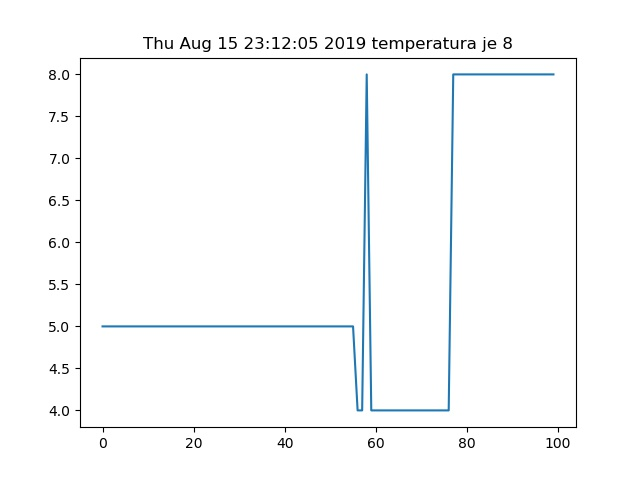
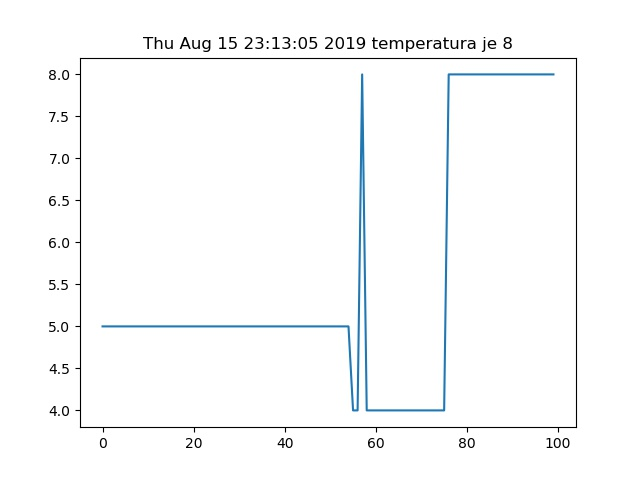
'auto'

Changed region(s): [[0.5312, 0.1562, 0.5938, 0.875], [0.6875, 0.1562, 0.7188, 0.875]]

diff --git a/README.md b/README.md
@@ -1,5 +1,5 @@
 Frizider live: 8
-21808.175 
+21726.4 
 0
 Temperatura:
 
